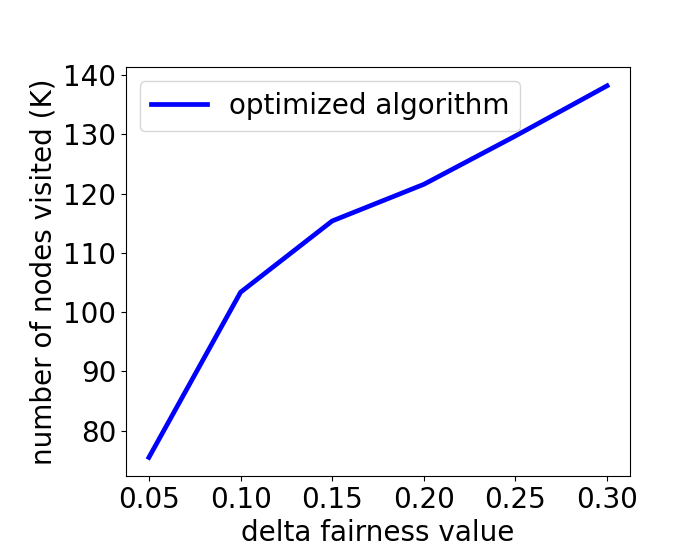
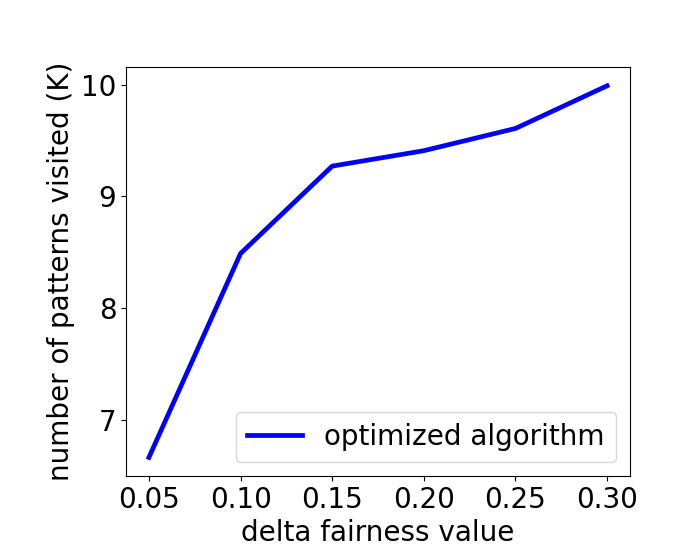
general compas, tha

diff --git a/Coding/Experiments/General_FP/CompasData/Tha_1_20210629.py b/Coding/Experiments/General_FP/CompasData/Tha_1_20210629.py
@@ -42,21 +42,25 @@ def thousands_formatter(x, pos):
 
 
 
-all_attributes = ['sexC', 'ageC', 'raceC', 'MC', 'priors_count_C', 'c_charge_degree', 'decile_score',
-                'c_days_from_compas_C',
-                'juv_fel_count_C', 'juv_misd_count_C', 'juv_other_count_C']
+# all_attributes = ['sexC', 'ageC', 'raceC', 'MC', 'priors_count_C', 'c_charge_degree', 'decile_score',
+#                 'c_days_from_compas_C',
+#                 'juv_fel_count_C', 'juv_misd_count_C', 'juv_other_count_C']
+
+
+selected_attributes = ['sexC', 'ageC', 'raceC', 'MC', 'priors_count_C', 'c_charge_degree', 'decile_score']
+
 thc = 50
 
 original_data_file = "../../../../InputData/CompasData/Preprocessed_classified/RecidivismData_13att_classified.csv"
-less_attribute_data = pd.read_csv(original_data_file)[all_attributes]
+less_attribute_data = pd.read_csv(original_data_file)[selected_attributes]
 FP_data_file = "../../../../InputData/CompasData/Preprocessed_classified/RecidivismData_13att_classified_FP.csv"
-FP = pd.read_csv(FP_data_file)[all_attributes]
+FP = pd.read_csv(FP_data_file)[selected_attributes]
 TP_data_file = "../../../../InputData/CompasData/Preprocessed_classified/RecidivismData_13att_classified_TP.csv"
-TP = pd.read_csv(TP_data_file)[all_attributes]
+TP = pd.read_csv(TP_data_file)[selected_attributes]
 FN_data_file = "../../../../InputData/CompasData/Preprocessed_classified/RecidivismData_13att_classified_FN.csv"
-FN = pd.read_csv(FN_data_file)[all_attributes]
+FN = pd.read_csv(FN_data_file)[selected_attributes]
 TN_data_file = "../../../../InputData/CompasData/Preprocessed_classified/RecidivismData_13att_classified_TN.csv"
-TN = pd.read_csv(TN_data_file)[all_attributes]
+TN = pd.read_csv(TN_data_file)[selected_attributes]
 
 overall_FPR = len(FP) / (len(FP) + len(TN))
 
@@ -154,7 +158,7 @@ fig, ax = plt.subplots()
 plt.plot(diff_acc, num_calculations, label="optimized algorithm", color='blue', linewidth = 3.4)
 
 plt.xlabel('delta fairness value')
-plt.ylabel('number of nodes visited (K)')
+plt.ylabel('number of patterns visited (K)')
 ax.yaxis.set_major_formatter(FuncFormatter(thousands_formatter))
 
 

diff --git a/Coding/Experiments/General_FP/CompasData/Tha_0_20210521.py b/Coding/Experiments/General_FP/CompasData/Tha_0_20210521.py
@@ -125,7 +125,7 @@ for n in range(len(diff_acc)):
 plt.plot(diff_acc, execution_time, label="optimized algorithm", color='blue', linewidth = 3.4)
 
 
-plt.xlabel('threshold of accuracy')
+plt.xlabel('delta fairness value')
 plt.ylabel('execution time (s)')
 plt.xticks(diff_acc)
 
@@ -139,7 +139,7 @@ fig, ax = plt.subplots()
 plt.plot(diff_acc, num_calculations, label="optimized algorithm", color='blue', linewidth = 3.4)
 
 plt.xlabel('delta fairness value')
-plt.ylabel('number of nodes visited (K)')
+plt.ylabel('number of patterns visited (K)')
 ax.yaxis.set_major_formatter(FuncFormatter(thousands_formatter))
 
 
